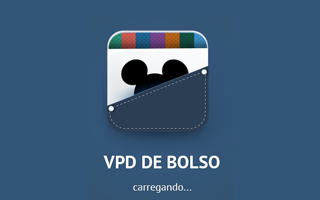
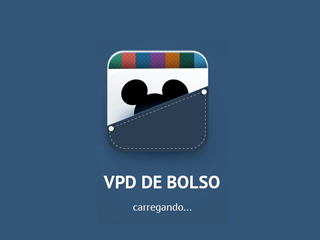
- Ajustado splash screen para android e algumas resoluções do IOS; @TODO: Finalizar demais splash screens para IOS;

diff --git a/www/index.html b/www/index.html
@@ -14,9 +14,6 @@
     <script src="js/jquery/jquery-1.11.1.min.js"></script>
     <script src="js/jquery/jquery.mobile-1.4.5.min.js"></script>
 
-    <!-- debug -->
-    <script type="text/javascript" src="http://192.168.0.101:8080/target/target-script-min.js#anonymous"></script>
-
 </head> 
 <body>
 	
@@ -33,56 +30,53 @@
 	
 	<div data-role="panel" id="myPanel"  data-position="right"  data-display="overlay">  
 		<script>
-
-		$(document).ready(function(){
-			$('.btnSalvar2').click(function(){
-				var lS = prompt("De um nome ao resultado para salvar.","");
-				localStorage.setItem(lS, $(location).attr('href'));
-			}) 				
-			  
-			$('.btn-favoritos2').click(function(){
-				var tamanho = localStorage.length;
-				var chave = '';
-				var valor = '';
-				
-				if(document.getElementById("tableResults").rows.length > 1)	{
-					for(var t = document.getElementById("tableResults").rows.length; t > 1; t--){
-					document.getElementById("tableResults").deleteRow(1);
+			$(document).ready(function(){
+				$('.btnSalvar2').click(function(){
+					var lS = prompt("De um nome ao resultado para salvar.","");
+					localStorage.setItem(lS, $(location).attr('href'));
+				}) 				
+				  
+				$('.btn-favoritos2').click(function(){
+					var tamanho = localStorage.length;
+					var chave = '';
+					var valor = '';
+					
+					if(document.getElementById("tableResults").rows.length > 1)	{
+						for(var t = document.getElementById("tableResults").rows.length; t > 1; t--){
+						document.getElementById("tableResults").deleteRow(1);
+						}
 					}
-				}
-									
-				var numOfCols = document.getElementById("tableResults").rows[document.getElementById("tableResults").rows.length-1].cells.length;
-					
-				for(var c = 0; c < tamanho;c++){
-					chave = localStorage.key(c);
-					valor = localStorage.getItem(chave);
-					
-					
-					var newRow = document.getElementById("tableResults").insertRow(document.getElementById("tableResults").rows.length);
+										
+					var numOfCols = document.getElementById("tableResults").rows[document.getElementById("tableResults").rows.length-1].cells.length;
 						
-						for (var j = 0; j < numOfCols; j++) {
+					for(var c = 0; c < tamanho;c++){
+						chave = localStorage.key(c);
+						valor = localStorage.getItem(chave);
 						
-						newCell = newRow.insertCell(j);
 						
-						if(j==0){
+						var newRow = document.getElementById("tableResults").insertRow(document.getElementById("tableResults").rows.length);
 							
-							}else if(j == 1){
-								newCell.innerHTML = "<a href='"+valor+"'>• "+chave+"</a>";
-							} } }	
-				});
+							for (var j = 0; j < numOfCols; j++) {
+							
+							newCell = newRow.insertCell(j);
+							
+							if(j==0){
+								
+								}else if(j == 1){
+									newCell.innerHTML = "<a href='"+valor+"'>• "+chave+"</a>";
+								} } }	
+					});
+			});
 
-
-		});
-
-		$('.link').on('tap', function() {
-		    url = $(this).attr("rel");   
-		    loadURL(url);
-		});
-			
-		function loadURL(url){
-				    navigator.app.loadUrl(url, { openExternal:true });
-				    return false;
-		}
+			$('.link').on('tap', function() {
+			    url = $(this).attr("rel");   
+			    loadURL(url);
+			});
+				
+			function loadURL(url){
+					    navigator.app.loadUrl(url, { openExternal:true });
+					    return false;
+			}
 		</script>
 			
 			<table id="tableResults" class="tabela" border="0">

diff --git a/hooks/before_plugin_ls/instalar_plugins.js b/hooks/before_plugin_ls/instalar_plugins.js
@@ -9,7 +9,7 @@ var pluginlist = [
    //  "org.apache.cordova.device-orientation",
   	// "org.apache.cordova.dialogs",
   	// "org.apache.cordova.network-information",
-  	// "org.apache.cordova.splashscreen",
+  	"org.apache.cordova.splashscreen",
   	// "org.apache.cordova.vibration",
     "org.apache.cordova.inappbrowser"
 
